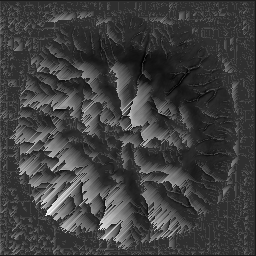
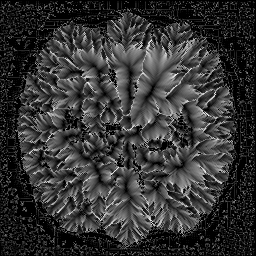
- Correction calcul Wetness/Drainage
- Calcul Stream Power

diff --git a/Outerrain/Source/app.cpp b/Outerrain/Source/app.cpp
@@ -5,7 +5,10 @@
 #include "imgui/imgui.h"
 #include "imgui_opengl.h"
 
+static GLuint draignageTexture;
 static GLuint wetnessTexture;
+static GLuint streampowerTexture;
+
 // TODO :
 //  -Thermal Erosion (Nathan)
 //  -Wetness Field / Accessibility Field (Vincent)
@@ -48,8 +51,11 @@ int App::Init()
 	mesh->SetMaterial(Material(Color::Blue(), 32));
 
 	ScalarField2D wetness = vegTerrain.WetnessField();
-	wetness.WriteImageGrayscale("Data/wetness.png");
+	ScalarField2D streampower = vegTerrain.StreamPowerField();
+
+	GLuint draignageTexture = ReadTexture(0, "Data/drainage.png", GL_RGB);
 	GLuint wetnessTexture = ReadTexture(0, "Data/wetness.png", GL_RGB);
+	GLuint streampowerTexture = ReadTexture(0, "Data/wetness.png", GL_RGB);
 
 	GameObject* obj = new GameObject();
 	obj->AddComponent(mesh);
@@ -97,8 +103,14 @@ int App::Render()
 	ImGui::End();
 
 	// Debug Image 
+	ImGui::Begin("Drainage Image");
+	ImGui::Image((void*)draignageTexture, ImVec2(150, 150));
+	ImGui::End();
 	ImGui::Begin("Wetness Image");
 	ImGui::Image((void*)wetnessTexture, ImVec2(150, 150));
+	ImGui::End();
+	ImGui::Begin("Stream Power Image");
+	ImGui::Image((void*)streampowerTexture, ImVec2(150, 150));
 	ImGui::End();
 	return 1;
 }

diff --git a/Outerrain/Include/terrain.h b/Outerrain/Include/terrain.h
@@ -4,6 +4,14 @@
 #include "mesh.h"
 #include "valueField.h"
 
+struct Point
+{
+	int x, y;
+
+	Point() { }
+	Point(int a, int b) : x(a), y(b) { }
+};
+
 class Terrain2D
 {
 protected:
@@ -27,14 +35,15 @@ public:
 	int SizeY() const { return ny; }
 	void ComputeNormalField();
 
-	int Distribute(Vector2 p, Vector2* neighbours, float* height, float* slope) const;
+	int Distribute(Point p, Point* neighbours, float* height, float* slope) const;
 	ScalarField2D Drainage() const;
+	ScalarField2D DrainageSqrt() const;
 	double ComputeIllumination(int i, int j) const;
 
 	ScalarField2D WetnessField() const;
 	ScalarField2D StreamPowerField() const;
 	ScalarField2D SlopeField() const;
-	ScalarField2D AccessibilityField() const;	
+	ScalarField2D AccessibilityField() const;
 
 private:
 	float Lerp(float a, float b, float f);
